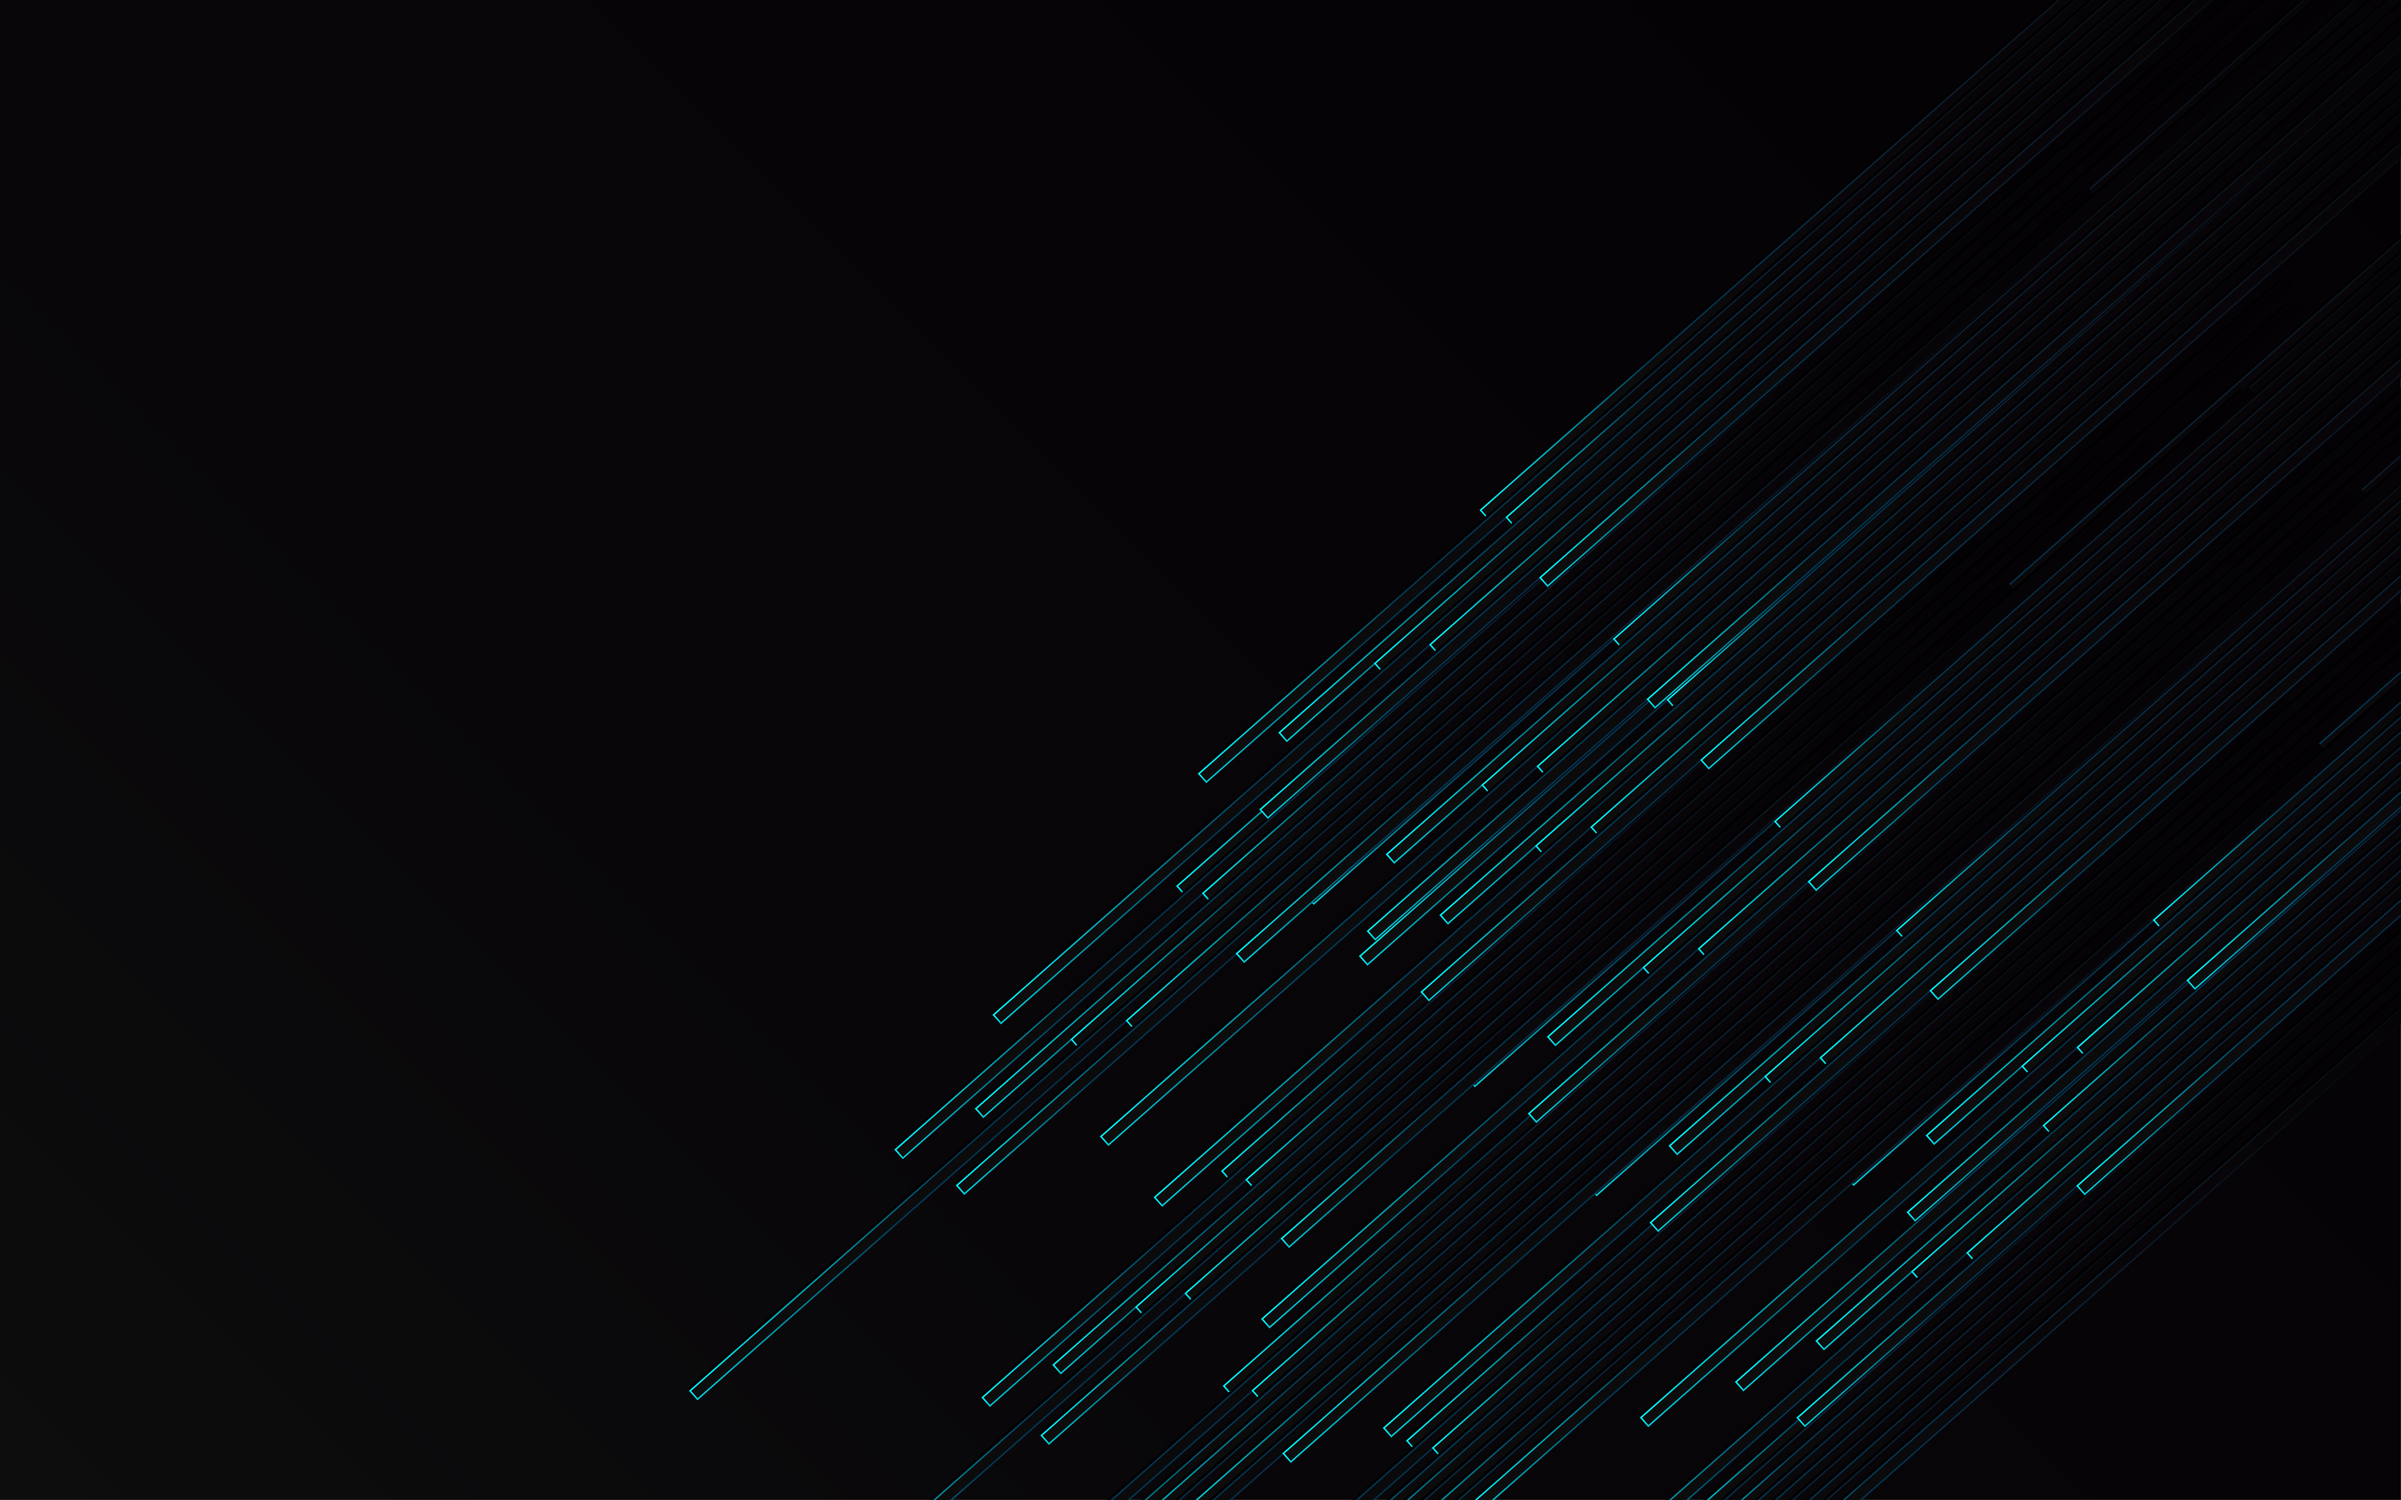
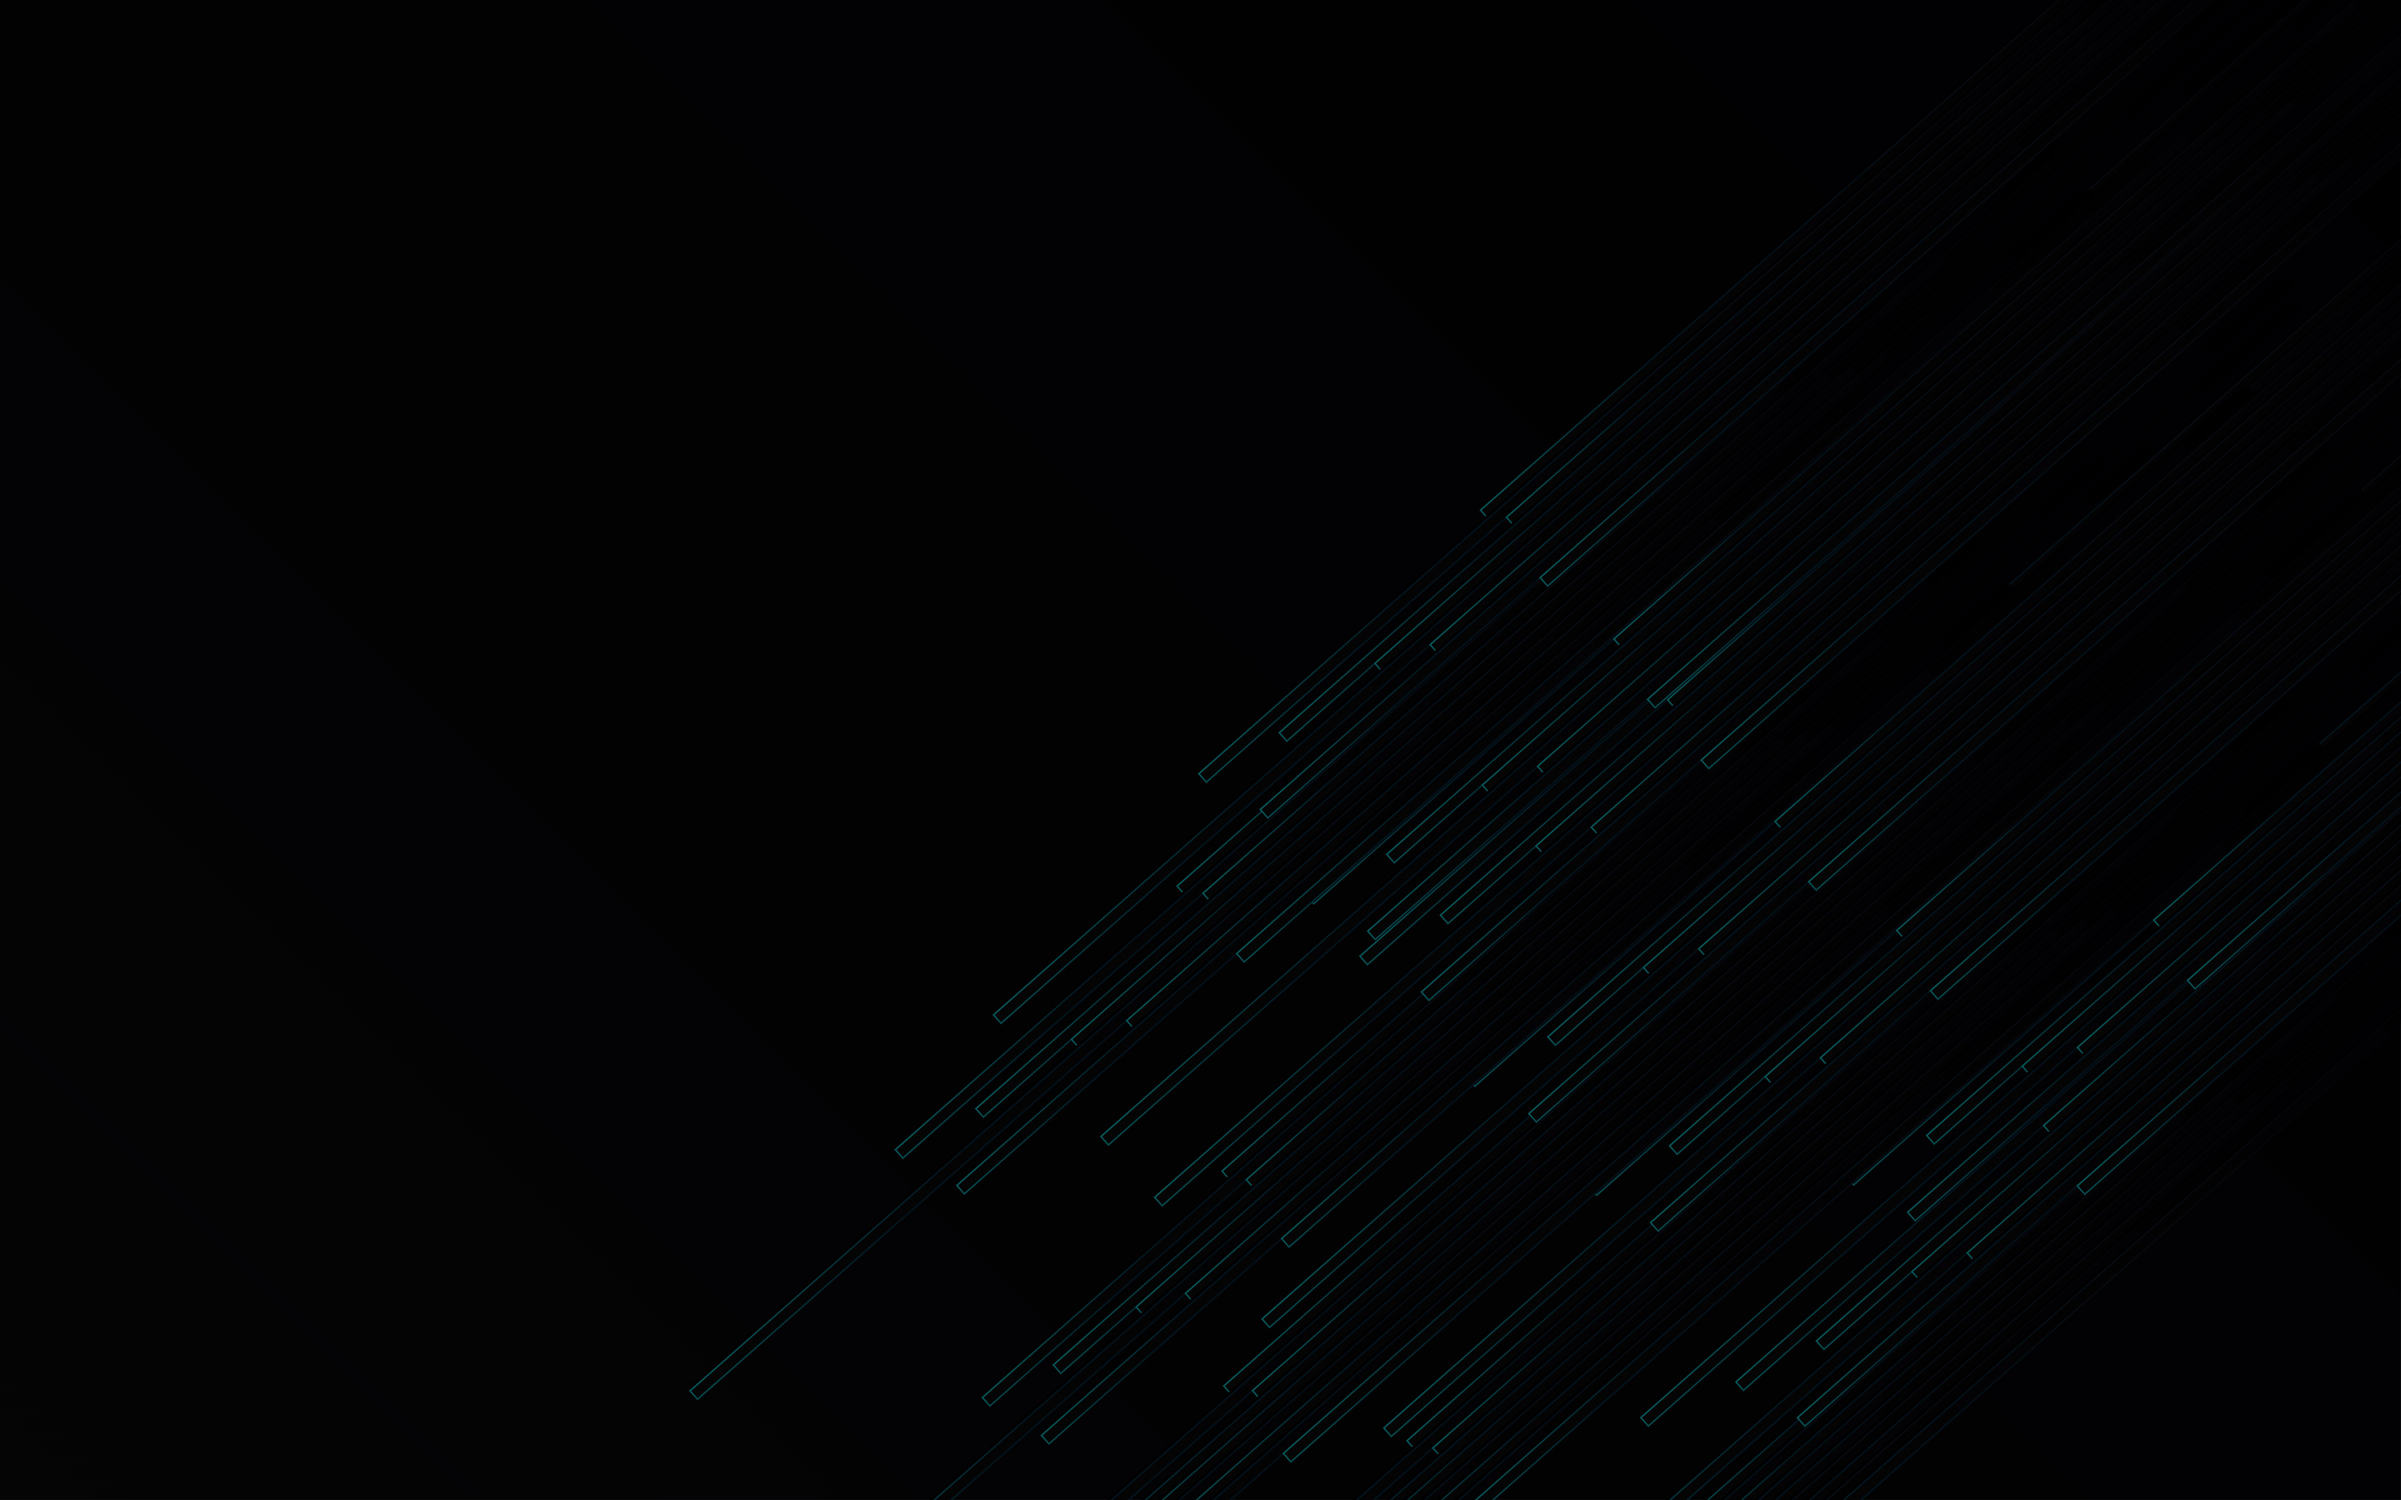
toggle bar

diff --git a/index.html b/index.html
@@ -4,26 +4,26 @@
 <head>
     <meta charset="utf-8">
     <meta name="viewport" content="width=device-width, initial-scale=1">
-    <title>Bootstrap demo</title>
+    <title>Anagha R Warrier</title>
     <link href="https://cdn.jsdelivr.net/npm/bootstrap@5.3.3/dist/css/bootstrap.min.css" rel="stylesheet"
         integrity="sha384-QWTKZyjpPEjISv5WaRU9OFeRpok6YctnYmDr5pNlyT2bRjXh0JMhjY6hW+ALEwIH" crossorigin="anonymous">
-    <
+    <link href="styles.css" rel="stylesheet">
 </head>
 
-<body class="overflow-hidden">
+<body class="vh-100 overflow-hidden">
     <!-- Navbar -->
-    <img  class="img-fluid" src="bg.jpg">
     <nav class="navbar navbar-dark navbar-expand-lg bg-transparent fixed-top">
         <div class="container-fluid">
             <!-- Logo -->
-            <a class="navbar-brand" href="#"><img src="Logo.png" style="height: 50px;" class="border rounded-circle"></a>
+            <a class="navbar-brand" href="#"><img src="images\Logo.png" style="height: 50px;" class="border rounded-circle"></a>
             <!-- Toggle Button -->
             <button class="navbar-toggler shadow-none border-0" type="button" data-bs-toggle="offcanvas"
                 data-bs-target="#offcanvasDarkNavbar" aria-controls="offcanvasDarkNavbar"
                 aria-label="Toggle navigation">
                 <span class="navbar-toggler-icon"></span>
             </button>
-            <div class="offcanvas offcanvas-end text-bg-dark" tabindex="-1" id="offcanvasDarkNavbar"
+            <!-- Sidebar -->
+            <div class="sidebar offcanvas offcanvas-end " tabindex="-1" id="offcanvasDarkNavbar"
                 aria-labelledby="offcanvasDarkNavbarLabel">
                 <div class="offcanvas-header">
                     <button type="button" class="btn-close btn-close-white" data-bs-dismiss="offcanvas"

diff --git a/styles.css b/styles.css
@@ -1,0 +1,15 @@
+body{
+    background: url('images/bg.jpg') rgba(0, 0, 0, 0.1);
+    background-blend-mode: multiply;
+    background-position: center;
+    background-size: cover;
+    background-repeat: no-repeat;
+    
+}
+
+@media (max-width:991px){
+    .sidebar{
+        background-color: rgba(255, 255, 255, 0.15);
+        backdrop-filter: blur(10px);
+    }
+}
